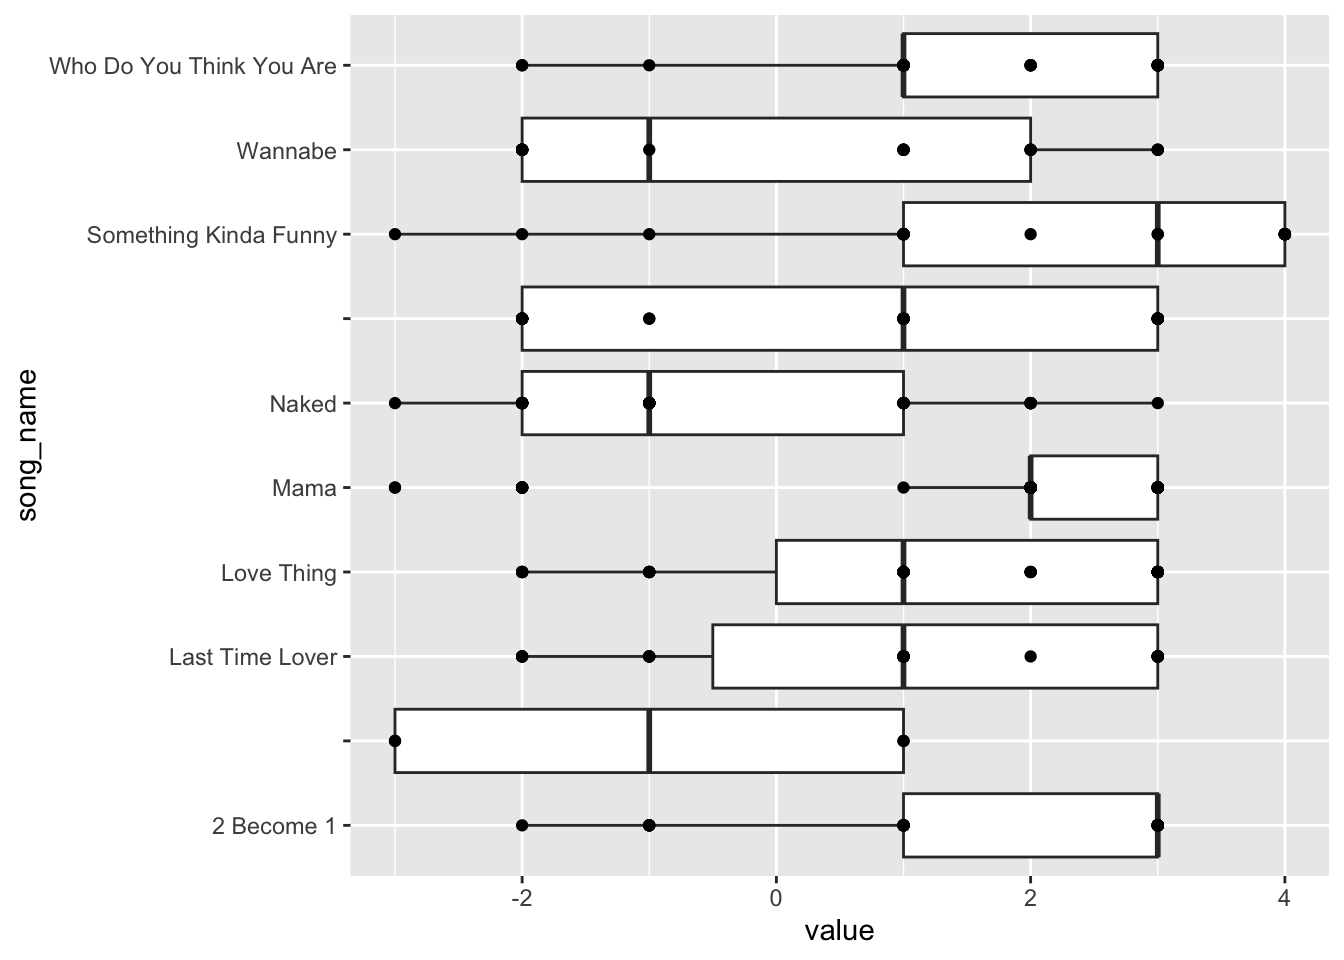
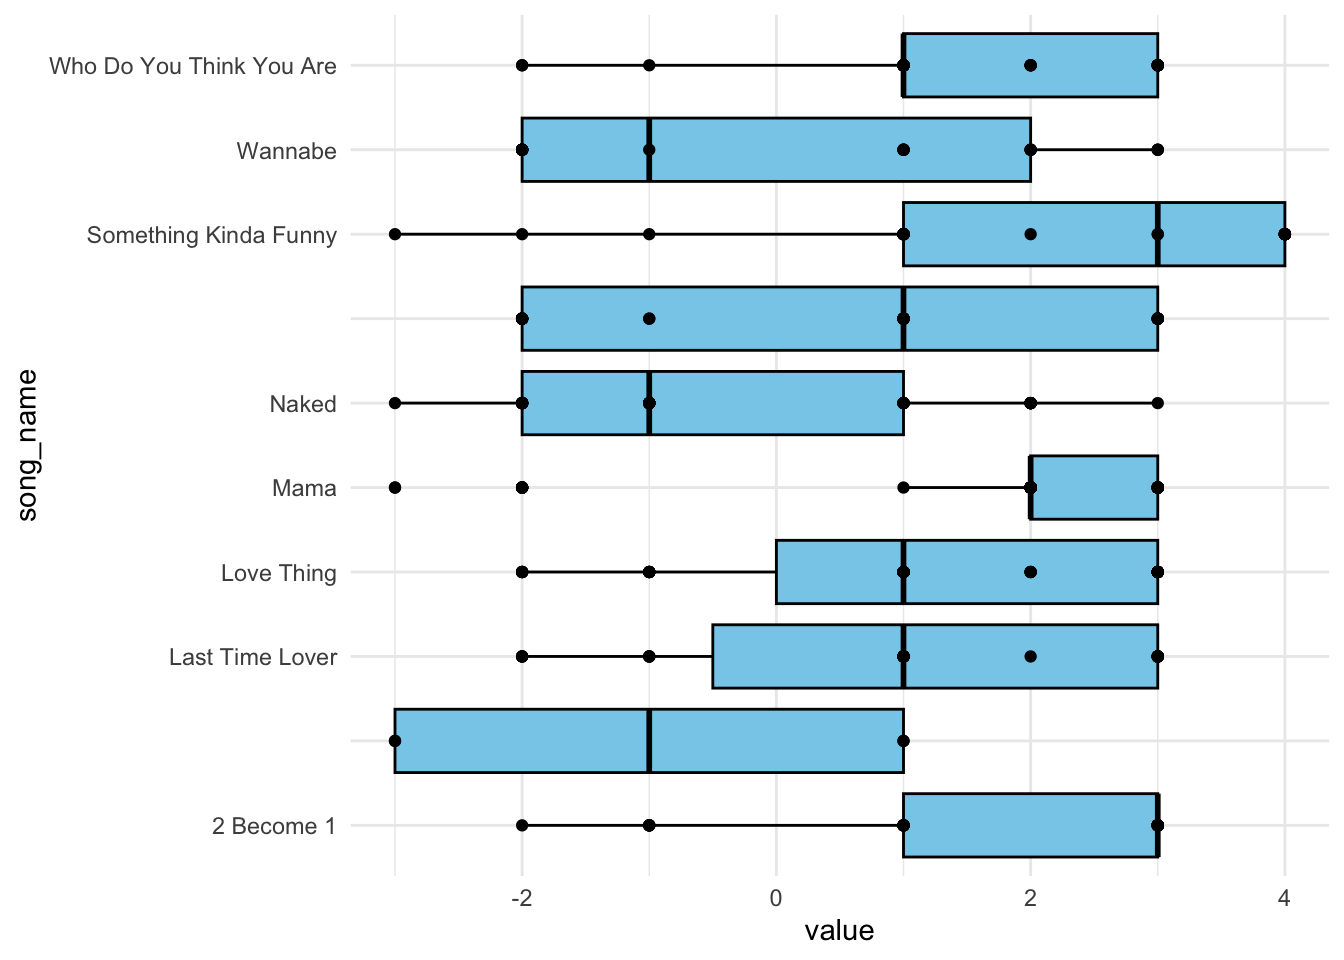
update notes

diff --git a/docs/9b-text.html b/docs/9b-text.html
@@ -602,8 +602,17 @@ $ section_artist &lt;chr&gt; "Scary, Ginger", "Scary, Ginger", "Scary, Ginger", 
 </div>
 <p><strong>visualise the afinn scores</strong></p>
 <div class="cell">
-<div class="sourceCode cell-code" id="cb42"><pre class="sourceCode r code-with-copy"><code class="sourceCode r"><span id="cb42-1"><a href="#cb42-1" aria-hidden="true" tabindex="-1"></a><span class="fu">ggplot</span>(sentiment_spice_lyrics, <span class="fu">aes</span>(<span class="at">y =</span> value)) <span class="sc">+</span></span>
-<span id="cb42-2"><a href="#cb42-2" aria-hidden="true" tabindex="-1"></a>  <span class="fu">geom_boxplot</span>() </span></code><button title="Copy to Clipboard" class="code-copy-button"><i class="bi"></i></button></pre></div>
+<div class="sourceCode cell-code" id="cb42"><pre class="sourceCode r code-with-copy"><code class="sourceCode r"><span id="cb42-1"><a href="#cb42-1" aria-hidden="true" tabindex="-1"></a><span class="fu">library</span>(ggplot2)</span>
+<span id="cb42-2"><a href="#cb42-2" aria-hidden="true" tabindex="-1"></a></span>
+<span id="cb42-3"><a href="#cb42-3" aria-hidden="true" tabindex="-1"></a><span class="fu">ggplot</span>(sentiment_spice_lyrics, <span class="fu">aes</span>(<span class="at">y =</span> value)) <span class="sc">+</span></span>
+<span id="cb42-4"><a href="#cb42-4" aria-hidden="true" tabindex="-1"></a>  <span class="fu">geom_boxplot</span>(<span class="at">fill =</span> <span class="st">"skyblue"</span>, <span class="at">color =</span> <span class="st">"black"</span>) <span class="sc">+</span></span>
+<span id="cb42-5"><a href="#cb42-5" aria-hidden="true" tabindex="-1"></a>  <span class="fu">theme_minimal</span>() <span class="sc">+</span></span>
+<span id="cb42-6"><a href="#cb42-6" aria-hidden="true" tabindex="-1"></a>  <span class="fu">theme</span>(</span>
+<span id="cb42-7"><a href="#cb42-7" aria-hidden="true" tabindex="-1"></a>    <span class="at">axis.title.x =</span> <span class="fu">element_blank</span>(),</span>
+<span id="cb42-8"><a href="#cb42-8" aria-hidden="true" tabindex="-1"></a>    <span class="at">axis.text.x =</span> <span class="fu">element_blank</span>(),</span>
+<span id="cb42-9"><a href="#cb42-9" aria-hidden="true" tabindex="-1"></a>    <span class="at">axis.ticks.x =</span> <span class="fu">element_blank</span>()</span>
+<span id="cb42-10"><a href="#cb42-10" aria-hidden="true" tabindex="-1"></a>  ) <span class="sc">+</span></span>
+<span id="cb42-11"><a href="#cb42-11" aria-hidden="true" tabindex="-1"></a>  <span class="fu">labs</span>(<span class="at">y =</span> <span class="st">"Afinn Value"</span>)</span></code><button title="Copy to Clipboard" class="code-copy-button"><i class="bi"></i></button></pre></div>
 <div class="cell-output-display">
 <div>
 <figure class="figure">
@@ -614,9 +623,10 @@ $ section_artist &lt;chr&gt; "Scary, Ginger", "Scary, Ginger", "Scary, Ginger", 
 </div>
 <div class="cell">
 <div class="sourceCode cell-code" id="cb43"><pre class="sourceCode r code-with-copy"><code class="sourceCode r"><span id="cb43-1"><a href="#cb43-1" aria-hidden="true" tabindex="-1"></a><span class="fu">ggplot</span>(sentiment_spice_lyrics, <span class="fu">aes</span>(<span class="at">x =</span> song_name, <span class="at">y =</span> value)) <span class="sc">+</span></span>
-<span id="cb43-2"><a href="#cb43-2" aria-hidden="true" tabindex="-1"></a>  <span class="fu">geom_boxplot</span>() <span class="sc">+</span></span>
+<span id="cb43-2"><a href="#cb43-2" aria-hidden="true" tabindex="-1"></a>  <span class="fu">geom_boxplot</span>(<span class="at">fill =</span> <span class="st">"skyblue"</span>, <span class="at">color =</span> <span class="st">"black"</span>) <span class="sc">+</span></span>
 <span id="cb43-3"><a href="#cb43-3" aria-hidden="true" tabindex="-1"></a>  <span class="fu">geom_point</span>() <span class="sc">+</span></span>
-<span id="cb43-4"><a href="#cb43-4" aria-hidden="true" tabindex="-1"></a>  <span class="fu">coord_flip</span>()</span></code><button title="Copy to Clipboard" class="code-copy-button"><i class="bi"></i></button></pre></div>
+<span id="cb43-4"><a href="#cb43-4" aria-hidden="true" tabindex="-1"></a>  <span class="fu">coord_flip</span>() <span class="sc">+</span></span>
+<span id="cb43-5"><a href="#cb43-5" aria-hidden="true" tabindex="-1"></a>  <span class="fu">theme_minimal</span>() </span></code><button title="Copy to Clipboard" class="code-copy-button"><i class="bi"></i></button></pre></div>
 <div class="cell-output-display">
 <div>
 <figure class="figure">

diff --git a/docs/index.html b/docs/index.html
@@ -133,6 +133,7 @@ ul.task-list li input[type="checkbox"] {
 <p>Tutorial Sheet 3: <a href="https://ncahill89.github.io/DS152/Tutorial3.html">Observational Studies</a></p>
 <p>Tutorial Sheet 4: <a href="https://ncahill89.github.io/DS152/Tutorial4.html">Experimental Studies</a></p>
 <p>Tutorial Sheet 5: <a href="https://ncahill89.github.io/DS152/Tutorial6.html">Predictive Analytics</a></p>
+<p>Tutorial Sheet 6: <a href="https://ncahill89.github.io/DS152/Tutorial7.html">(un)Supervised Learning</a></p>
 </section>
 <section id="assignments" class="level2">
 <h2 class="anchored" data-anchor-id="assignments">Assignments</h2>
@@ -140,6 +141,7 @@ ul.task-list li input[type="checkbox"] {
 <p>Assignment 2: <a href="https://ncahill89.github.io/DS152/Assignment2.html">Linear Regression</a></p>
 <p>Assignment 3: <a href="https://ncahill89.github.io/DS152/Assignment3.html">Sampling and Observational Studies</a></p>
 <p>Assignment 4: <a href="https://ncahill89.github.io/DS152/Assignment4.html">Experimental Studies</a></p>
+<p>Assignment 5: <a href="https://ncahill89.github.io/DS152/Assignment5.html">Predictive Analytics</a></p>
 
 
 </section>
